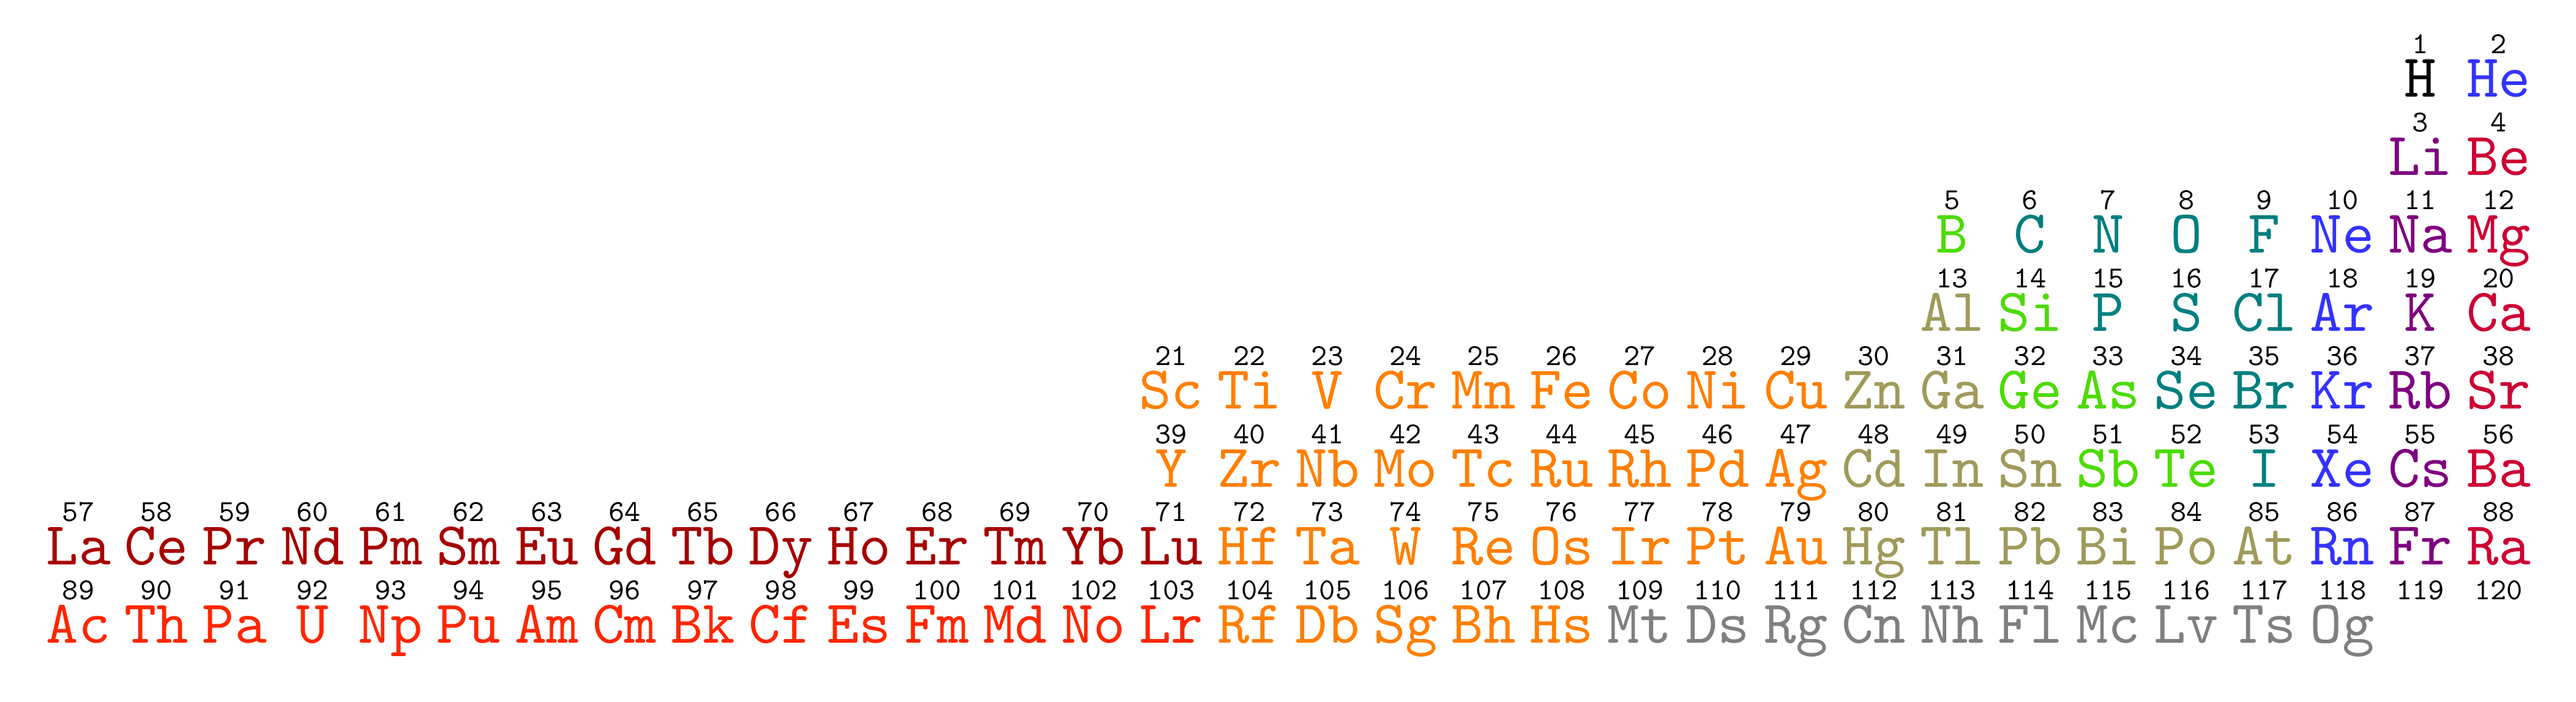
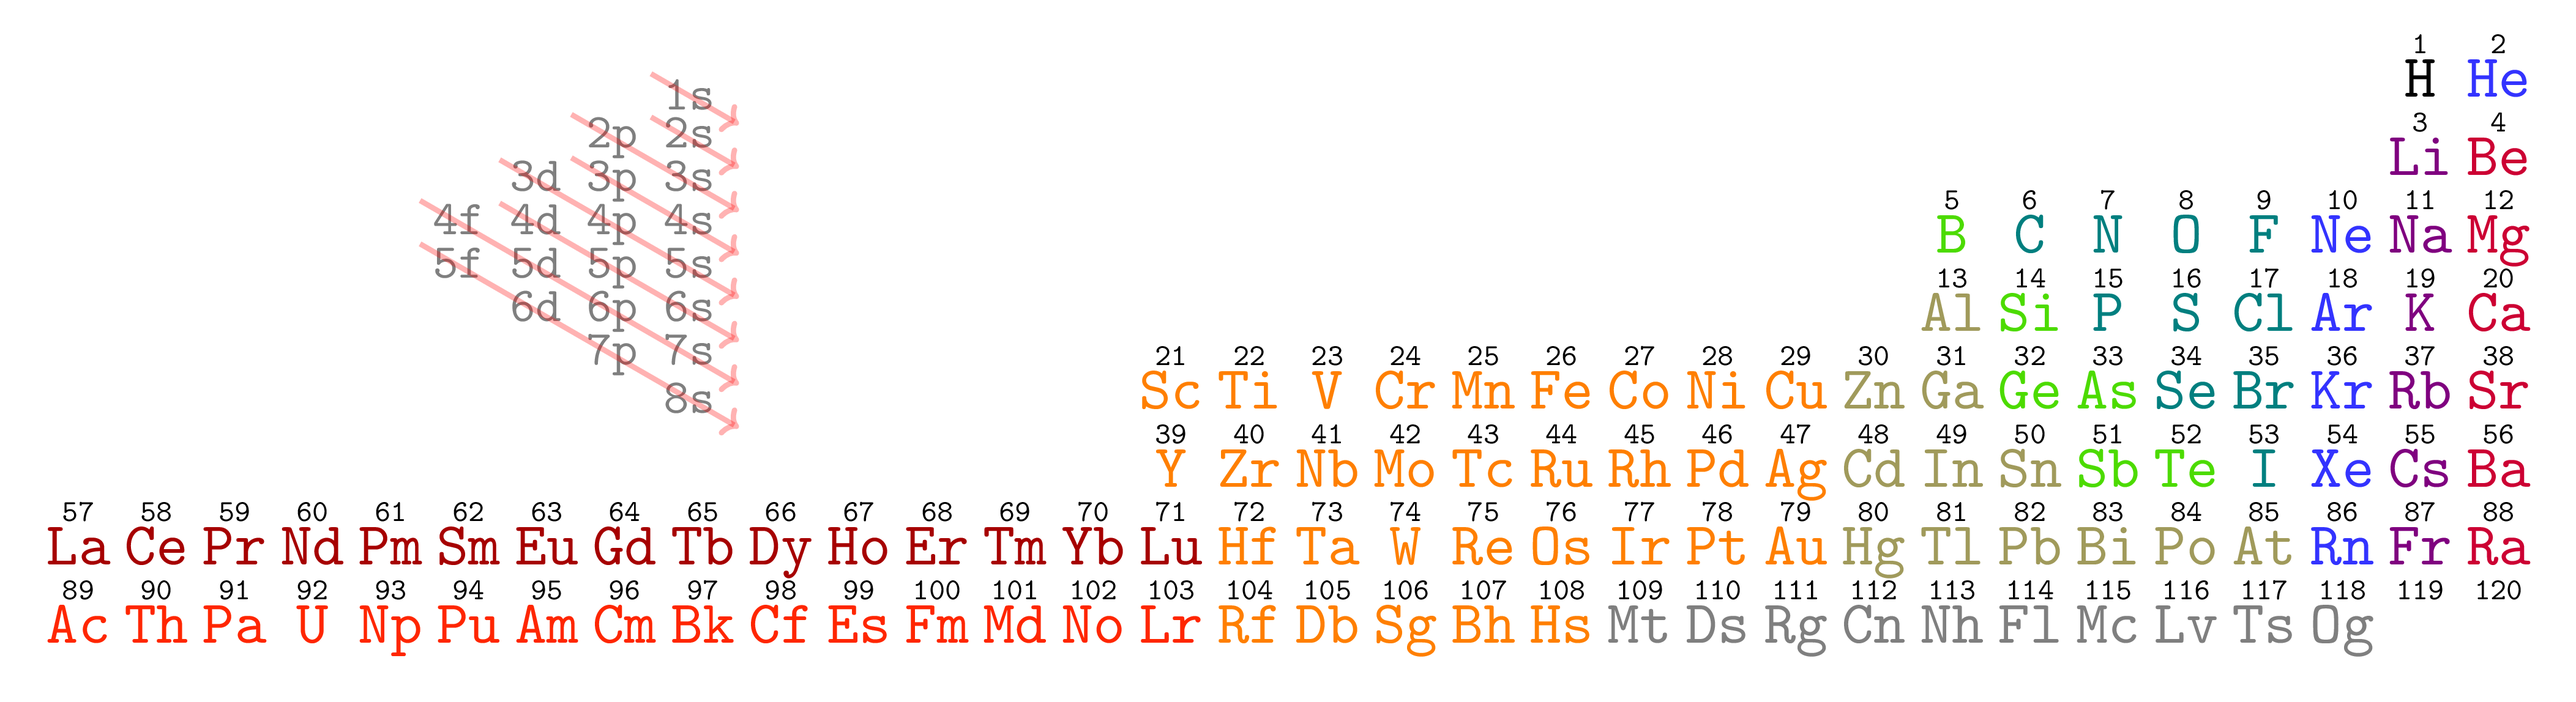
Adjust electron shell chart

Changed region(s): [[0.1556, 0.122, 0.3112, 0.6098]]

diff --git a/periodic-table.tex b/periodic-table.tex
@@ -1,5 +1,6 @@
 \RequirePackage{luatex85}
 \documentclass[tikz]{standalone}
+\usetikzlibrary{arrows.meta}
 \usepackage{mathtools, xcolor}
 
 \newcounter{atom}
@@ -14,6 +15,8 @@
         {\scalebox{10}{\smash\n\vphantom0}};
   }
 }
+
+%\renewcommand\period[3]{}
 
 \newcommand\I{\color{red!65!black}} % La's
 \newcommand\J{\color{red!70!orange}} % Ac's
@@ -39,5 +42,27 @@
   \period5{57}{\D Ba, \C Cs, \A Xe, \B I, \E Te, \E Sb, \F Sn, \F In, \F Cd, \G Ag, \G Pd, \G Rh, \G Ru, \G Tc, \G Mo, \G Nb, \G Zr, \G Y}
   \period6{89}{\D Ra, \C Fr, \A Rn, \F At, \F Po, \F Bi, \F Pb, \F Tl, \F Hg, \G Au, \G Pt, \G Ir, \G Os, \G Re, \G W, \G Ta, \G Hf, \I Lu, \I Yb, \I Tm, \I Er, \I Ho, \I Dy, \I Tb, \I Gd, \I Eu,\I Sm, \I Pm, \I Nd, \I Pr, \I Ce, \I La}
   \period7{121}{{}, {}, \K Og, \K Ts, \K Lv, \K Mc, \K Fl, \K Nh, \K Cn, \K Rg, \K Ds, \K Mt, \G Hs, \G Bh, \G Sg, \G Db, \G Rf, \J Lr, \J No, \J Md, \J Fm, \J Es, \J Cf, \J Bk, \J Cm,\J Am, \J Pu, \J Np, \J U, \J Pa, \J Th, \J Ac}
+  \newcommand\xdown{-25mm}
+  \newcommand\arrowlen{53mm}
+  \draw (-25.5*\x,-2.2*\x) node[rotate=0] {
+    \begin{tikzpicture}
+      \draw[
+    gray, line width=3mm,
+    every node/.style={anchor=east, shift={(0mm,15mm)}, scale=8},
+    every edge/.append style={red, {<[scale=1.2]}-, shift={(-8mm,-2mm)}, opacity=0.3},
+  ]
+  (0,0) node {1s} 
+  ++(0,0) edge +(150: 1.1*\arrowlen) ++(0,\xdown) node {2p 2s}
+  ++(0,0) edge +(150: 1.1*\arrowlen) ++(0,\xdown) node {3d 3p 3s}
+  ++(0,0) edge +(150: 2.1*\arrowlen) ++(0,\xdown) node {4f 4d 4p 4s}
+  ++(0,0) edge +(150: 2.1*\arrowlen) ++(0,\xdown) node {5f 5d 5p 5s}
+  ++(0,0) edge +(150: 3*\arrowlen) ++(0,\xdown) node {6d 6p 6s}
+  ++(0,0) edge +(150: 3*\arrowlen) ++(0,\xdown) node {7p 7s}
+  ++(0,0) edge +(150: 4*\arrowlen) ++(0,\xdown) node {8s}
+  ++(0,0) edge +(150: 4*\arrowlen)
+;
+    \end{tikzpicture}
+  };
+
 \end{tikzpicture}
 \end{document}
